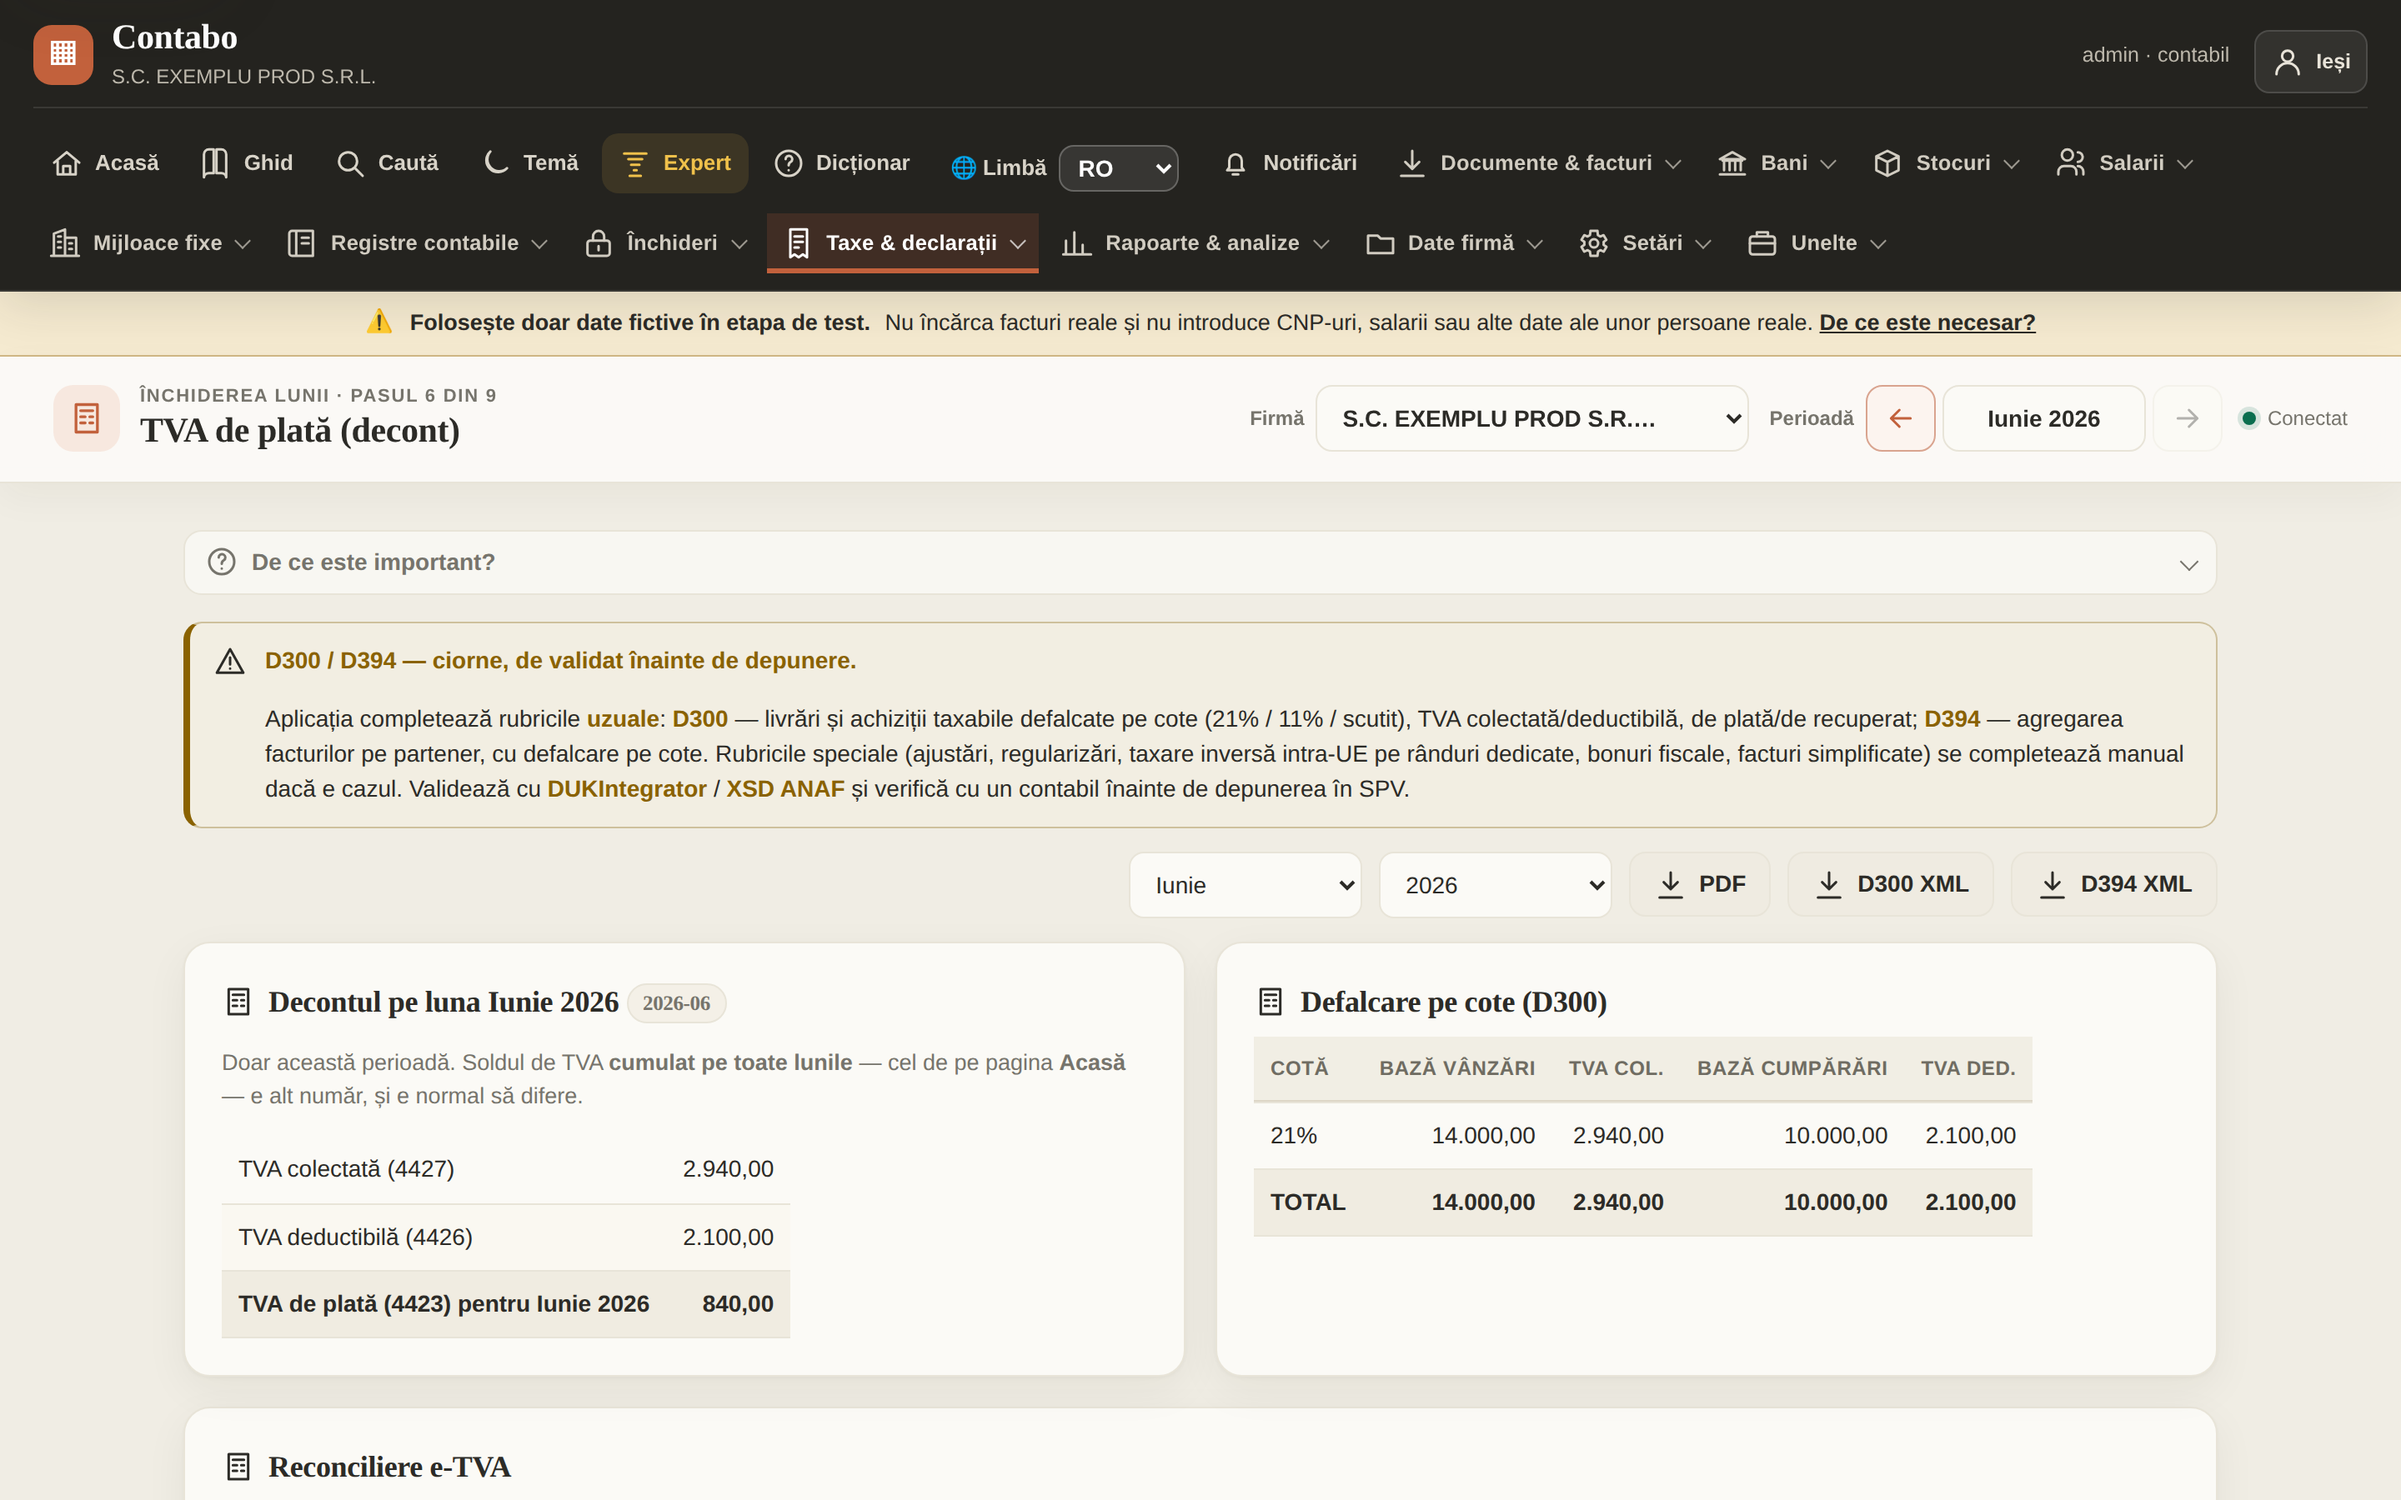
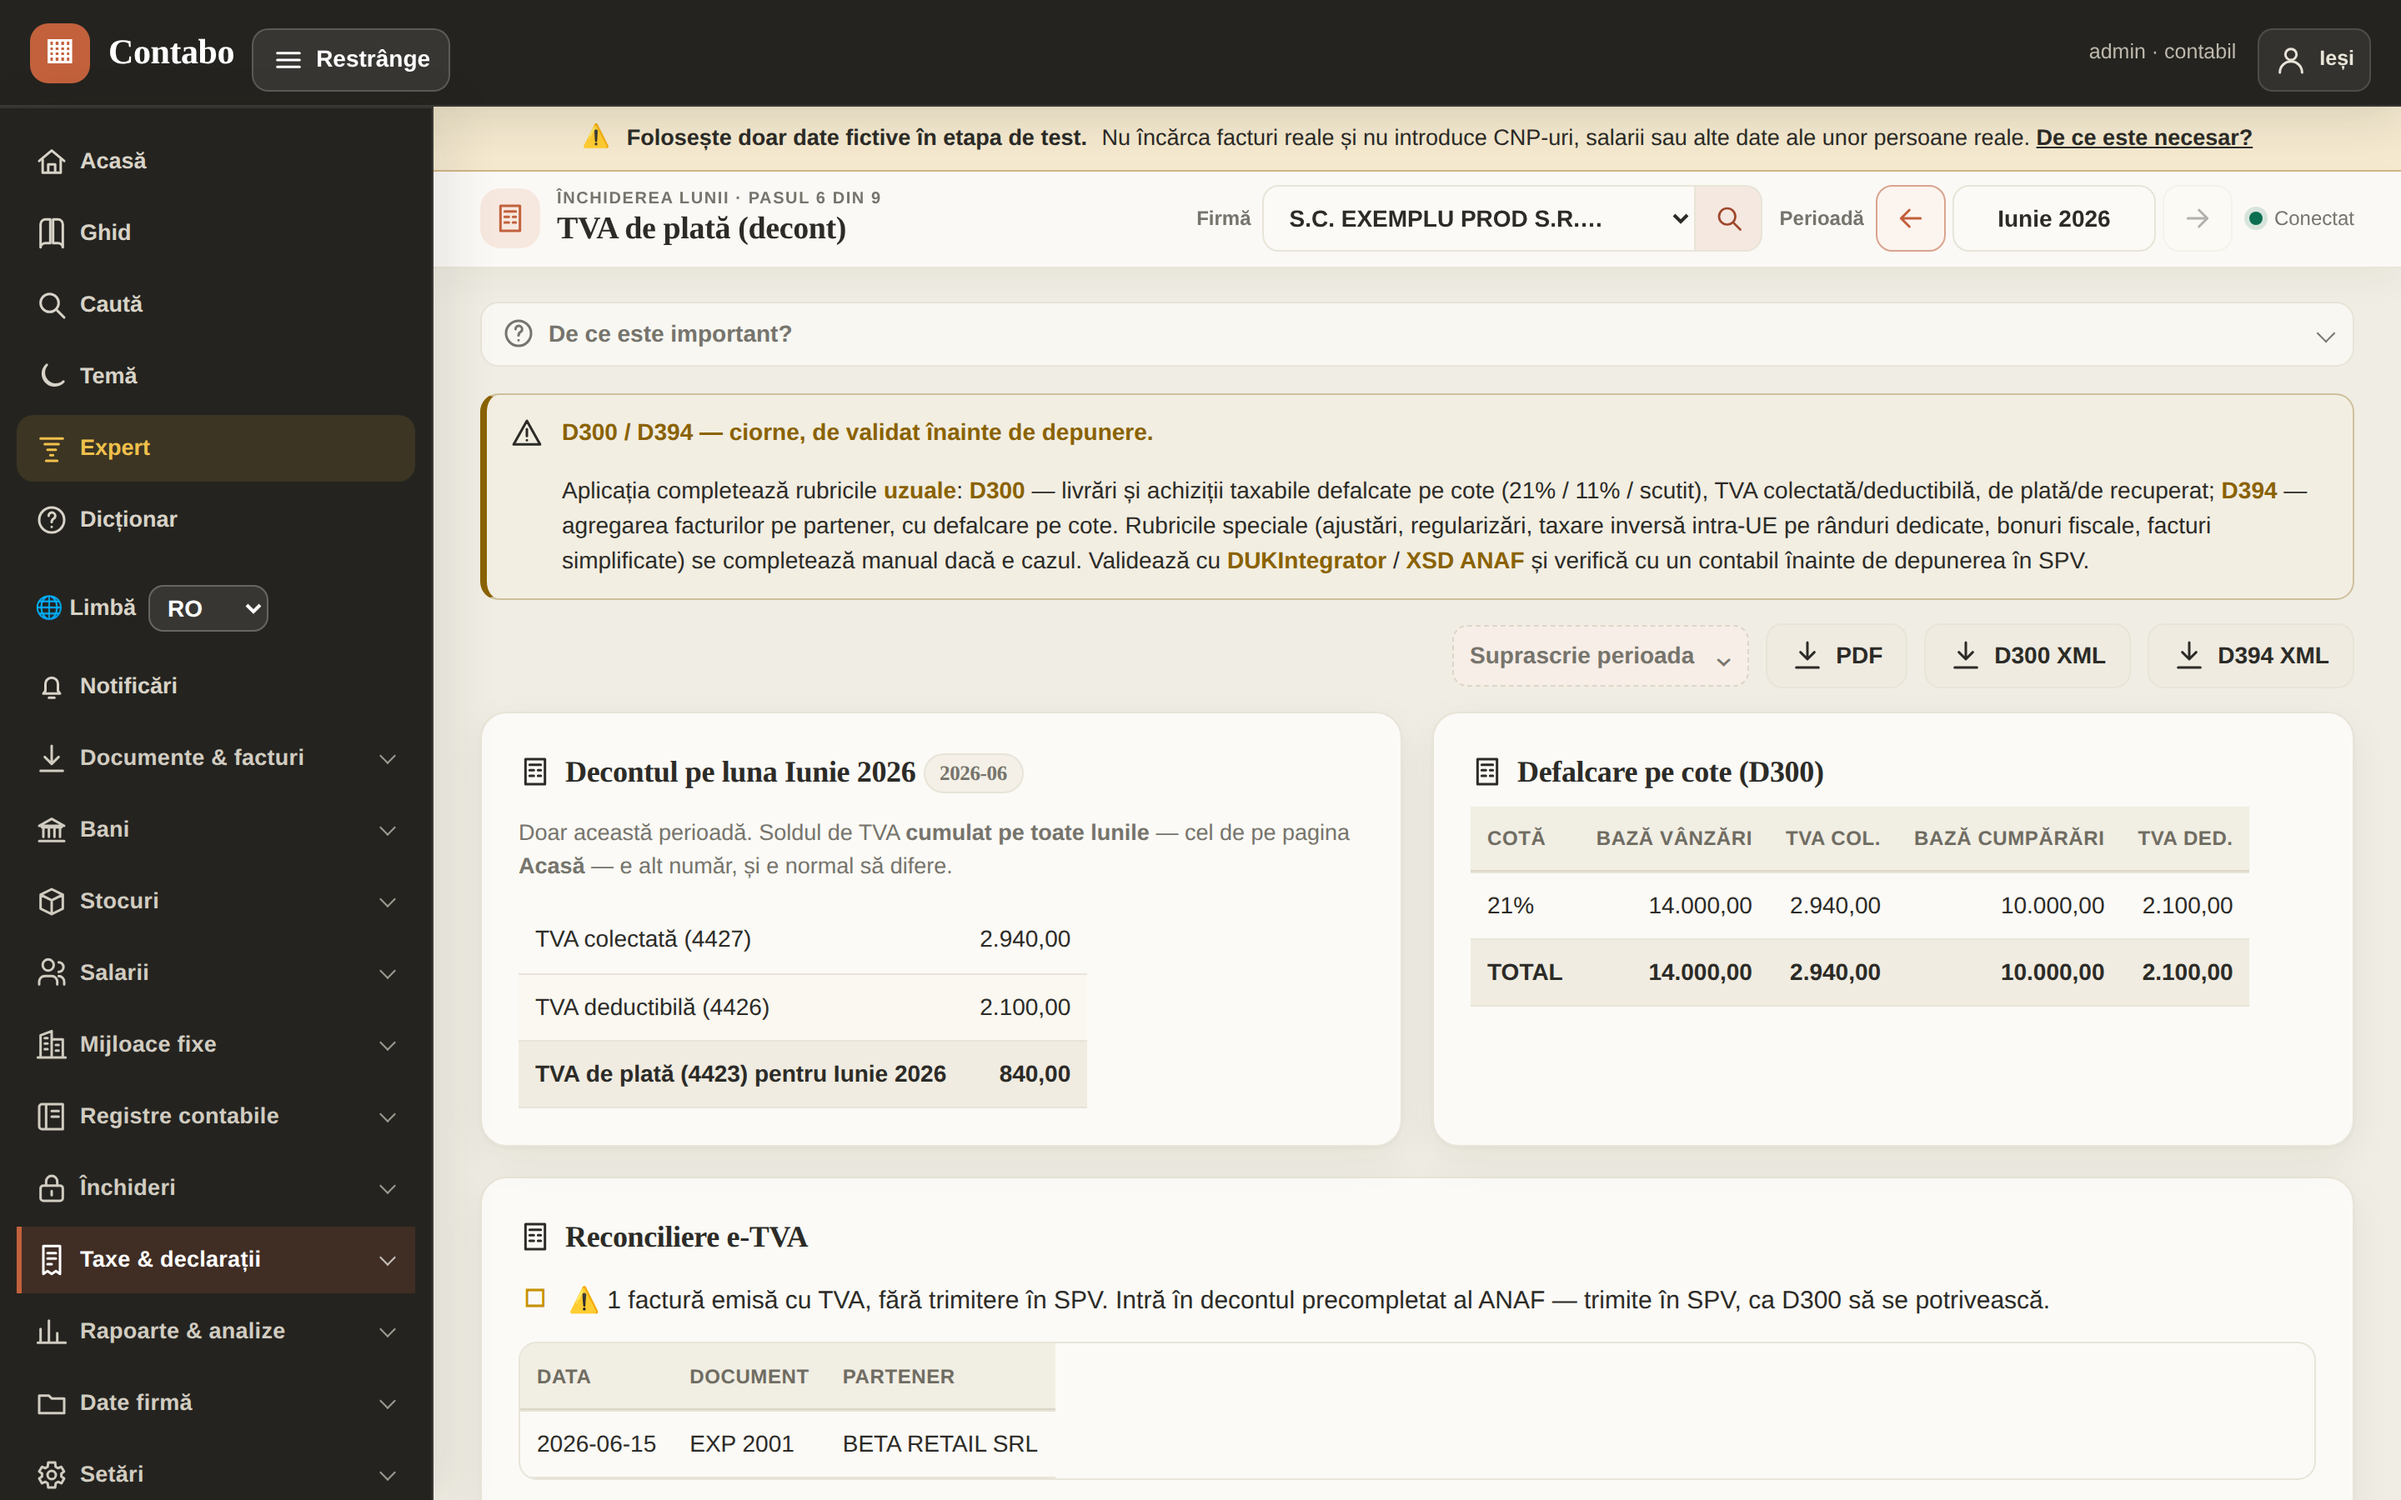
fix(ci): refresh UI capture artifacts

diff --git a/public/i18n.js b/public/i18n.js
@@ -266,7 +266,6 @@
     'Tur meniu': 'Menu tour',
     'Turul meniului — îți arată în câțiva pași cum e organizată aplicația': 'Menu tour — see how the app is organised in a few steps',
     'Spațiu de lucru': 'Workspace',
-    'Firmă': 'Company',
     'Perioadă': 'Period',
     'Perioada globală': 'Global period',
     'Se aplică perioadei globale alese în bara de sus.': 'Uses the global period selected in the top bar.',
@@ -646,8 +645,6 @@
     'Facturi primite în SPV (e-Factura: import din SPV sau XML)': 'Invoices received in SPV (e-Factura: import from SPV or XML)',
     'Importă facturile primite prin e-Factura: descarcă XML-ul, îl citește și deschide formularul de confirmare ca o cumpărare.': 'Import received e-Factura invoices: download the XML, read it and open the purchase confirmation form.',
     'Opțional — necesită aplicație OAuth + certificat digital ANAF (Setări → „Trimitere în SPV”). Dacă nu folosești SPV, importă direct XML-ul mai jos.': 'Optional — requires an OAuth app and ANAF digital certificate (Settings → “SPV submission”). If you do not use SPV, import the XML directly below.',
-    'Reconciliază SPV ↔ jurnal cumpărări': 'Reconcile SPV ↔ purchase journal',
-    'Import direct e-Factura (XML)': 'Direct e-Factura import (XML)',
     'Ai primit un fișier e-Factura (XML UBL)? Încarcă-l sau lipește-l aici — aplicația citește furnizorul, sumele și TVA-ul și creează factura de cumpărare.': 'Received an e-Factura file (UBL XML)? Upload or paste it here; the app reads the supplier, amounts and VAT and creates the purchase invoice.',
     'Aici emiți documentele firmei tale — facturi către clienți, bonuri, avize. Alegi ce vinzi, verifici formularul și salvezi: numărul în serie, articolul contabil și e-Factura / PDF-ul se generează automat.': 'Issue your company documents here — customer invoices, receipts and delivery notes. Choose what you sell, review and save; numbering, accounting entry, e-Factura and PDF are generated automatically.',
     'Factura ta către client: completezi liniile, numărul vine automat din serie, iar PDF-ul și e-Factura XML se generează singure.': 'Complete your customer invoice lines; numbering is automatic and the PDF and e-Factura XML are generated for you.',
